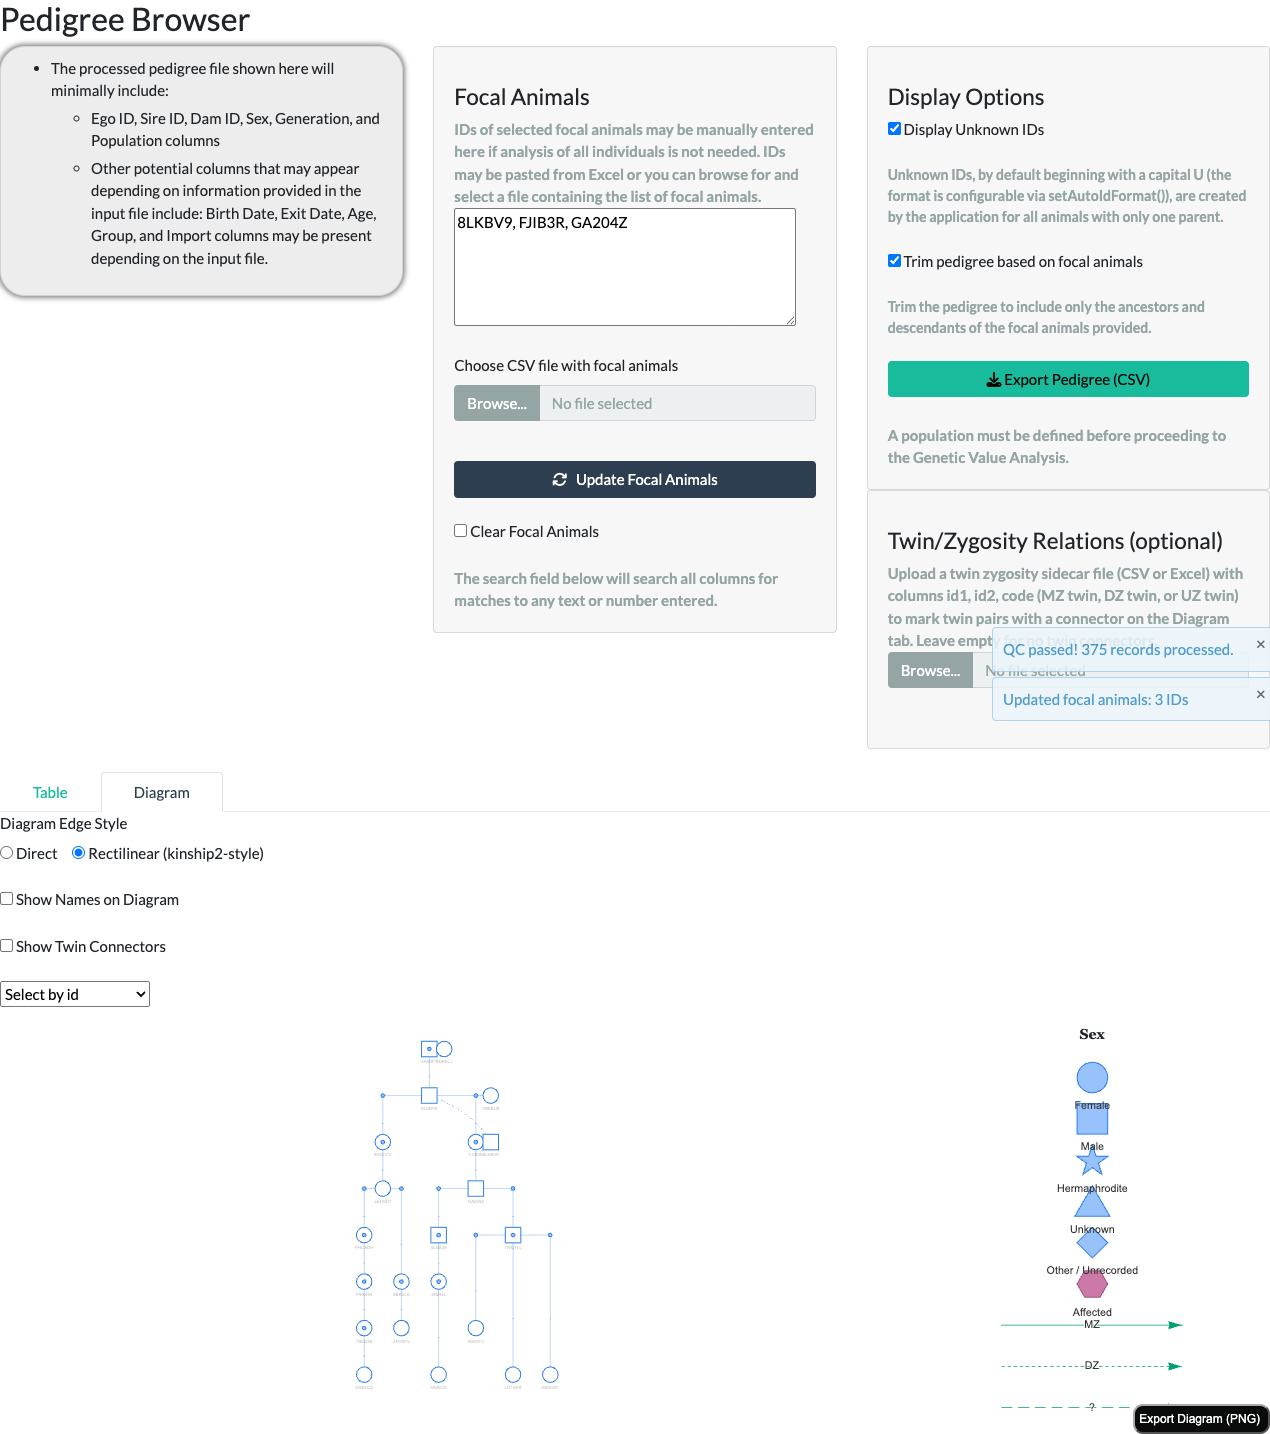
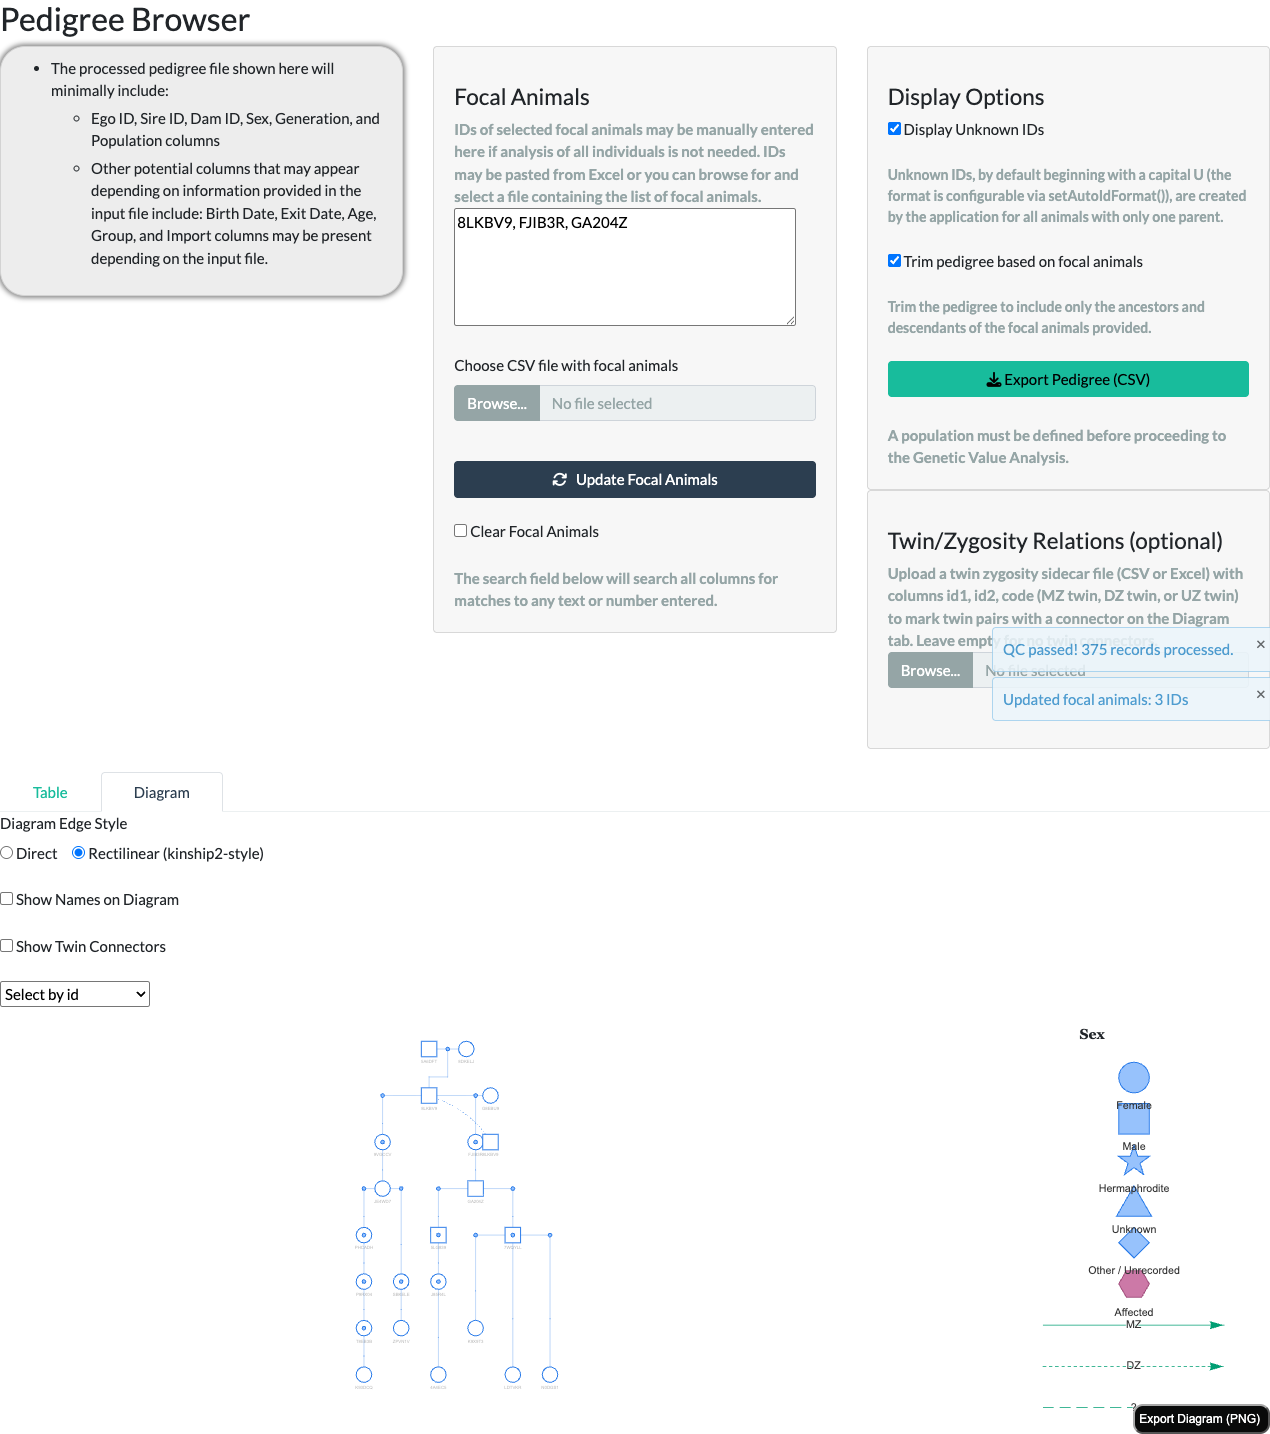
docs: pedigree-drawing fidelity audit -- file issue #166, regenerate stale screenshots
10-agent audit workflow (5 dimensions, each independently re-verified) against the
standing top-priority pedigree-drawing thread:

- Live-reconfirmed structural fidelity vs kinship2 on the real 375-individual fixture
  (identical = TRUE, 0 discrepancies, 132/132 assertions passing) -- re-run from
  scratch, not trusted from a prior claim.
- Confirmed 3 already-tracked residuals (union-vs-duplicate proximity, __jog_ waypoint
  styling, missing NEWS.Rmd entry for S649) are correctly disclosed; no action needed.
- New finding: Track 7's qualifying-union recenter decouples a union's x from its own
  children (dogleg / off-center sibship-bar drop), documented in the Track 7 plan doc's
  "5th finding" but never given its own tracking entry. Filed as issue #166 and a new
  BACKLOG.md Up Next item, cross-referencing the related closed issue #159.
- Regenerated 5 Shiny screenshots that were 4 days stale (predated Track 7); confirmed
  the kinship2-fidelity-validation-img/*.png set is already current (byte-identical on
  live regeneration, including trackC-nprc-*.png, checked after a direct owner question).

Owner-directed via AskUserQuestion: file the defect + push the 34 already-committed,
unpushed commits (done separately, e9554b04..fcb4df39).

Claude-Session: https://claude.ai/code/session_01WBPky9b2xPW1a8xpqV8duA

Changed region(s): [[0.8291, 0.7364, 0.9213, 0.9205], [0.3378, 0.7057, 0.3685, 0.7364]]

diff --git a/CHANGELOG.md b/CHANGELOG.md
@@ -16,6 +16,36 @@ it is failure mode #27.
 
 ## 2026-08
 
+### 2026-08-29 · [ad hoc] pedigree-drawing fidelity audit (user-directed workflow, not a numbered session)
+- Ran a 10-agent audit workflow (5 dimensions, each independently re-verified by a second agent)
+  against the standing top-priority pedigree-drawing thread. Live-reconfirmed structural fidelity
+  against kinship2 on the real 375-individual fixture (identical = TRUE, 0 discrepancies,
+  132/132 `test_comparePedigreeStructure.R` assertions passing) rather than trusting prior claims.
+  Confirmed 3 already-tracked residuals (union-vs-duplicate proximity, `__jog_` waypoint styling,
+  missing `NEWS.Rmd` entry for S649) are correctly disclosed and need no action. Found `master` was
+  34 commits ahead of `origin/master` (Track 7 Phase 2/S649 and isolated-individual-suppression
+  Phase 3/S650 had never been pushed, so CI had not run against either) — pushed
+  (`e9554b04..fcb4df39`, clean fast-forward).
+- **New finding, owner-directed to file:** Track 7's qualifying-union recenter
+  (`R/makePedigreeDiagramData.R:973-979`) overwrites Tier 2's children-mean union `x`
+  (`:765`) using only the two parents' positions — the "5th finding" the Track 7 plan doc
+  documented S647 but never gave its own tracking entry. Confirmed still present at HEAD
+  `fcb4df39`, visible directly on already-committed images (`trackB-kinship2-full.png` vs.
+  `trackB-nprc-full.png`: `P3xP4->C4`/`C4xP6->C4a` dogleg). Filed as
+  [issue #166](https://github.com/rmsharp/nprcgenekeepr/issues/166) and a new `BACKLOG.md` Up
+  Next item, cross-referencing the related, already-closed
+  [issue #159](https://github.com/rmsharp/nprcgenekeepr/issues/159) (same rigid-subtree layout
+  tension).
+- Live-regenerated `vignettes/articles/shiny_app_use/{diagram_rectilinear_edge_style,
+  diagram_show_names,diagram_affected_shading,diagram_twin_connectors,pb_diagram_legend}.png`
+  (the prior committed versions were 4 days stale, predating Track 7); confirmed
+  `vignettes/articles/kinship2-fidelity-validation-img/*.png` byte-identical on regeneration —
+  already current, not stale (owner asked specifically about Track C's `trackC-nprc-*.png` after
+  reviewing a published audit report; verified live rather than assumed).
+- Published as a private Artifact report (kinship2-vs-current diagram comparisons + live
+  screenshots) for the owner's own review; not itself part of this repo.
+- **Model:** Claude Sonnet 5.
+
 ### 2026-08-29 · [BL-N] S650: close out (isolated-individual-suppression item fully DONE)
 - `BACKLOG.md` item marked `[x]` DONE (all 3 phases shipped); new Housekeeping item filed for
   S649's own missing `NEWS.Rmd` entry (commit `c447df5d`). Recorded `PROJECT_LEARNINGS.md`

diff --git a/BACKLOG.md b/BACKLOG.md
@@ -213,6 +213,24 @@ future plans → `ROADMAP.md`. (Methodology file model — see `SESSION_RUNNER.m
       this alongside the union-dot-proximity finding, since both stem from the same
       local-vs-global positioning tension and a future fix attempt should consider them together
       rather than in isolation.
+- [ ] **Track 7's qualifying-union recenter decouples a union's `x` from its own children --
+      dogleg / off-center sibship-bar drop** (the "5th finding" above, found by the owner S647,
+      2026-08-27, documented in `docs/planning/pedigree-diagram-track7-mate-spacing-plan.md` §11
+      but never given its own tracking entry until a pedigree-drawing audit surfaced the gap,
+      2026-08-29 -- filed as [issue #166](https://github.com/rmsharp/nprcgenekeepr/issues/166),
+      READY, Effort M, a dedicated design session). **Confirmed still present at HEAD `fcb4df39`
+      (audit, 2026-08-29), independently re-verified against live source.** Single-child qualifying
+      unions (`P3xP4->C4`, `C4xP6->C4a` on Track B) get a right-angle dogleg instead of a straight
+      drop; `M1xG3`'s 3-child sibship bar drops off-center (x=3.5 vs. true mean x=3.0). Root cause:
+      Tier 2's `unitX[[u]] <- mean(tier1X[kids])` (`R/makePedigreeDiagramData.R:765`) gets
+      overwritten by Track 7's anchor/mate-midpoint recenter (`:973-979`), which never reads
+      `unitX` or the union's own children. Same rigid-subtree-vs-joint-optimization tension
+      [issue #159](https://github.com/rmsharp/nprcgenekeepr/issues/159) investigated and closed as
+      "not feasible to fix generally" -- this is further evidence for that conclusion, not a new
+      question. Visible directly on already-committed images, no fixture changes needed:
+      `trackB-kinship2-full.png` (straight drops) vs. `trackB-nprc-full.png` (kinked drops).
+      Consider together with the union-vs-duplicate-proximity residual below (same local-vs-global
+      tension, also from Track 7 Phase 2) when scoping a fix.
 - [x] **`R-CMD-check.yaml` CI is red on master, all 5 platforms** (found S636, 2026-08-26).
       **RESOLVED S637, 2026-08-26, per owner-directed "broader" scope (a genuinely clean baseline,
       not just a green checkmark):** the actual root cause was simpler than any of the 4 candidate
